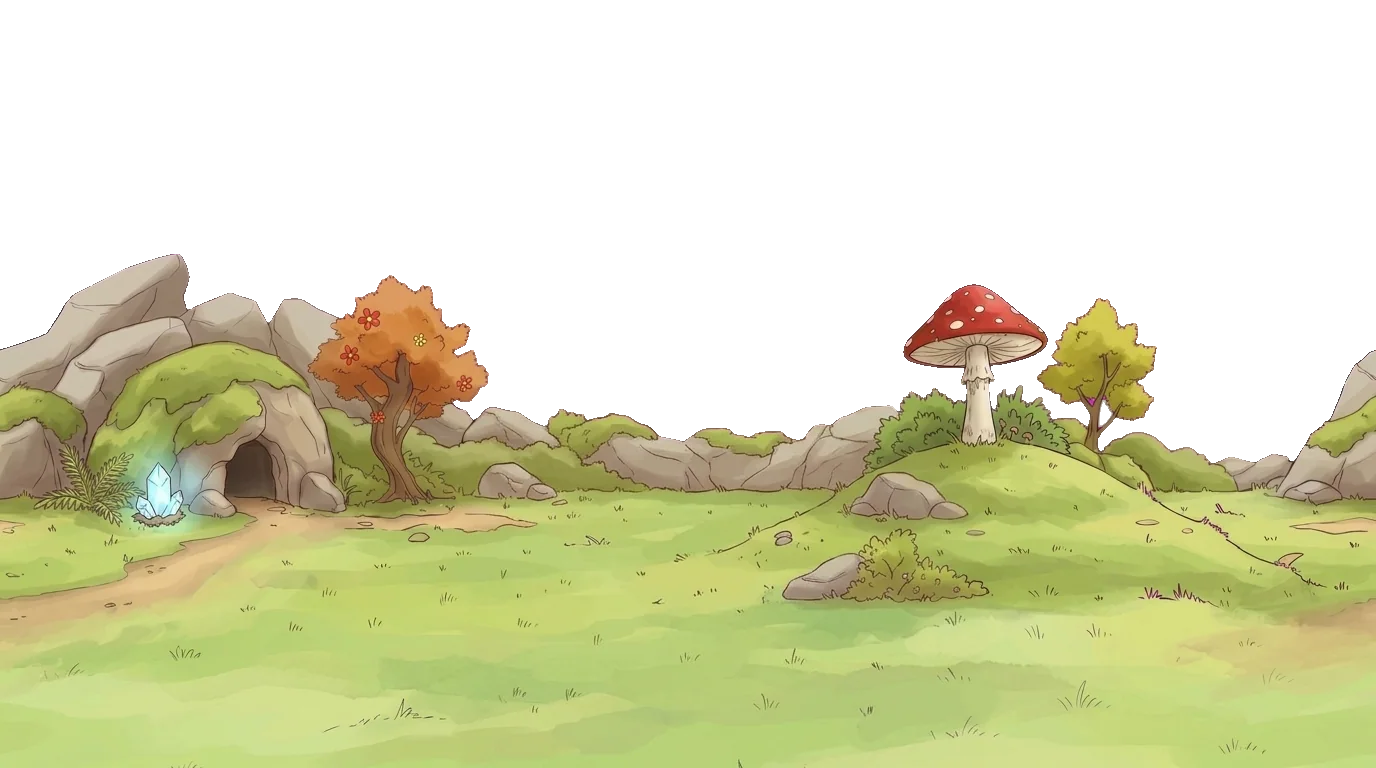
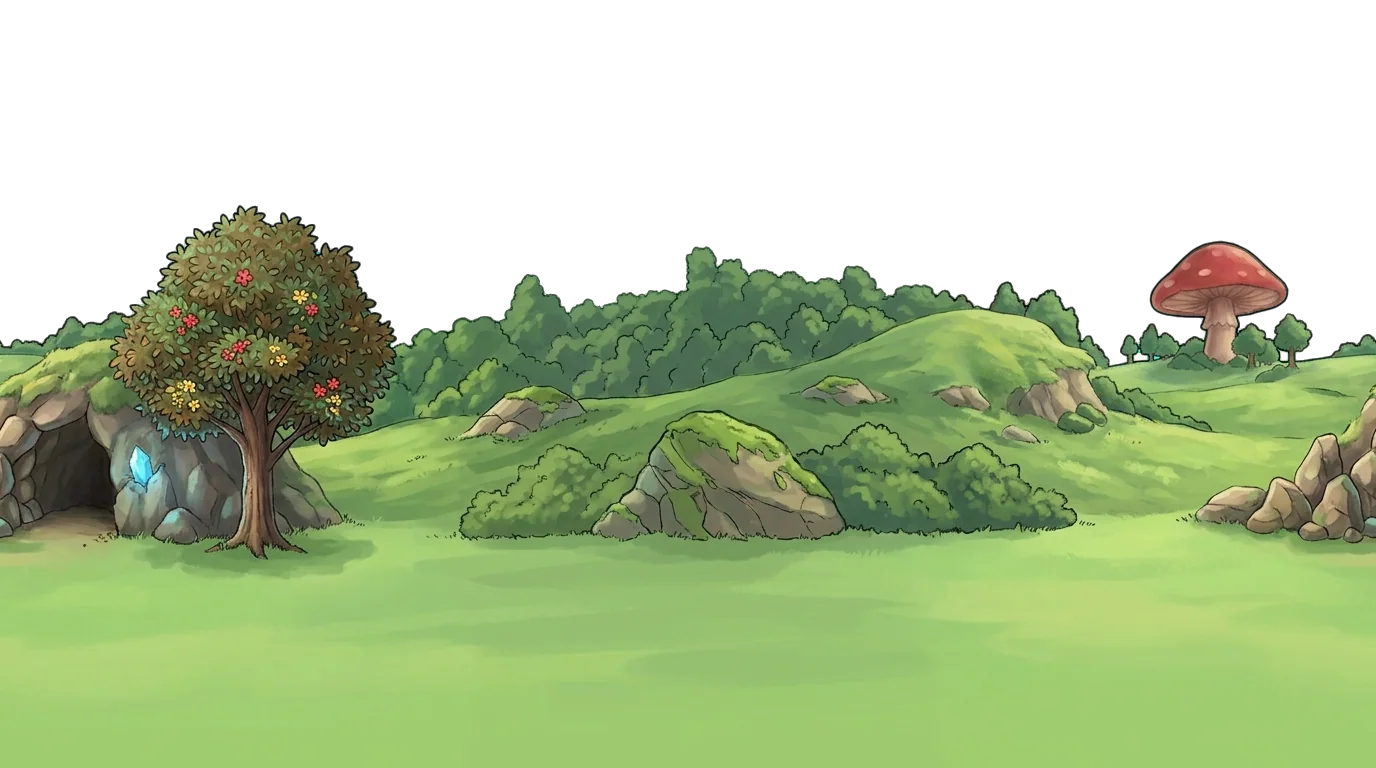
feat(valley): the owner's cyan-keyed bands, seams by Gemini
Claude-Session: https://claude.ai/code/session_01MAZwqVJqrTUDA5csgByiYr

diff --git a/assets-src/PROMPTS.md b/assets-src/PROMPTS.md
@@ -473,8 +473,8 @@ flat storybook style and no longer apply.
 | `bg-planet-mid.jpg` | (the owner's picture, 2026-10-28) soft yellow-green hills with small mushrooms and flower bushes, then a wide calm grass field | full | done 2026-10-28 (seam by Gemini, tint cleaned, moved down 200 px) |
 | `bg-planet-near.jpg` | (the owner's picture, 2026-10-28) a sandy path with pebbles, small crystals and mushrooms along its upper edge, calm grass below | full | done 2026-10-28 (seam by Gemini, tint cleaned, moved down 240 px: the path's middle at 89 % of the stage, where Tapko walks) |
 | `bg-dragons-far.jpg` | a peaceful dragon valley at sunset, warm orange and pink colours in the sky, the sun hidden behind the mountains, soft rounded mountains and a waterfall | full | done 2026-10-23 |
-| `bg-dragons-mid.jpg` | (the owner's picture, redrawn 2026-10-29) grey rocks with moss, a cave with a glowing crystal, a tree with orange blossoms, a big fly agaric on a grassy hill, then a wide calm meadow | full | done 2026-10-29 (seam by Gemini, moved down 224 px: its top at 55 % from the bottom) |
-| `bg-dragons-near.jpg` | (the owner's picture, redrawn 2026-10-29 with a clean edge on the key) green grass tufts, pebbles, flowers, a fern, a small fly agaric and a blue and red crystal, then calm grass | full | done 2026-10-29 (seam quilted from the picture itself: Gemini's seam drew a dark purple fern; moved down 405 px: its top at 27 % from the bottom; the usual keying only) |
+| `bg-dragons-mid.jpg` | (the owner's picture on a cyan key, 2026-10-29) wooded hills, a big fly agaric, a mossy cave with a glowing crystal, a tree with red and yellow blossoms, then a wide calm meadow | full | done 2026-10-29 (seam by Gemini, moved down 8 px: its skyline at 62 % from the bottom) |
+| `bg-dragons-near.jpg` | (the owner's picture on a cyan key, 2026-10-29) a low grassy edge with a red crystal, a stump, fly agarics, pebbles, blue flowers, then wide calm grass | full | done 2026-10-29 (seam by Gemini, moved down 246 px: its skyline at 27 % from the bottom) |
 | `bg-egg-far.jpg` | a bright morning valley with a long gentle grassy slope going down from left to right, a few trees and a blue river far away | full | done 2026-10-23 |
 | `bg-egg-mid.jpg` | a bush with yellow flowers, a leaning tree, a mossy boulder, a haystack, a pine, a bush with pink flowers, a signpost with empty boards and a rocky outcrop with ferns | 50 % | done 2026-10-23 |
 | `bg-egg-near.jpg` | only plants and small things: grass, yellow flowers, a pink wild rose, foxtail, a fern, a broken spotted eggshell, daisies, a mushroom and a thistle; no big rocks | 20 % | done 2026-10-23 |

diff --git a/.todo/80-dragon-valley.md b/.todo/80-dragon-valley.md
@@ -184,7 +184,5 @@ and the browser play-through (step 8; levels 1 and 2 checked so far). Decisions 
   word time x 0.6, the round clock (`drawClock`). The owner tested with `?fast` (a sixth of the
   minimum), which is why only three dragons came.
 - 2026-10-29: the owner painted new valley bands on a cyan key (`assets-src/bg-work/dragons/v4`,
-  mid `d3ue`, near `bmks`). Their seams must come from Gemini (the owner rejected stitching them);
-  `near-seam/` and `mid-seam/seam-in.png` are prepared, Gemini's daily limit stopped the run. Next:
-  queue the seam prompt with a flat cyan sky, `merge`, move down (near: skyline at 27 % from the
-  bottom, mid: at 62 %), `npm run assets bg-dragons`, manifest widths stay 1376.
+  mid `d3ue`, near `bmks`); seams by Gemini (the owner rejected stitching), near skyline at 27 %
+  from the bottom, mid at 62 %.
